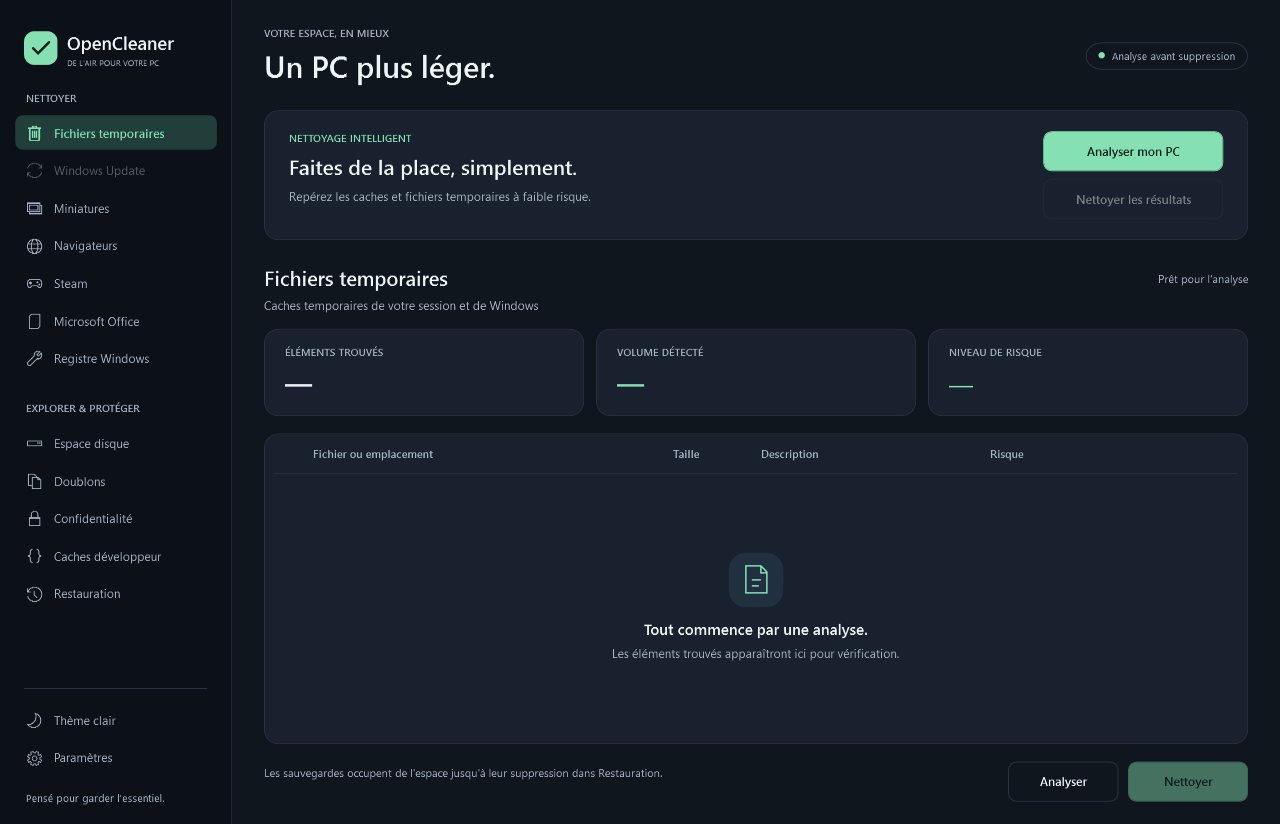
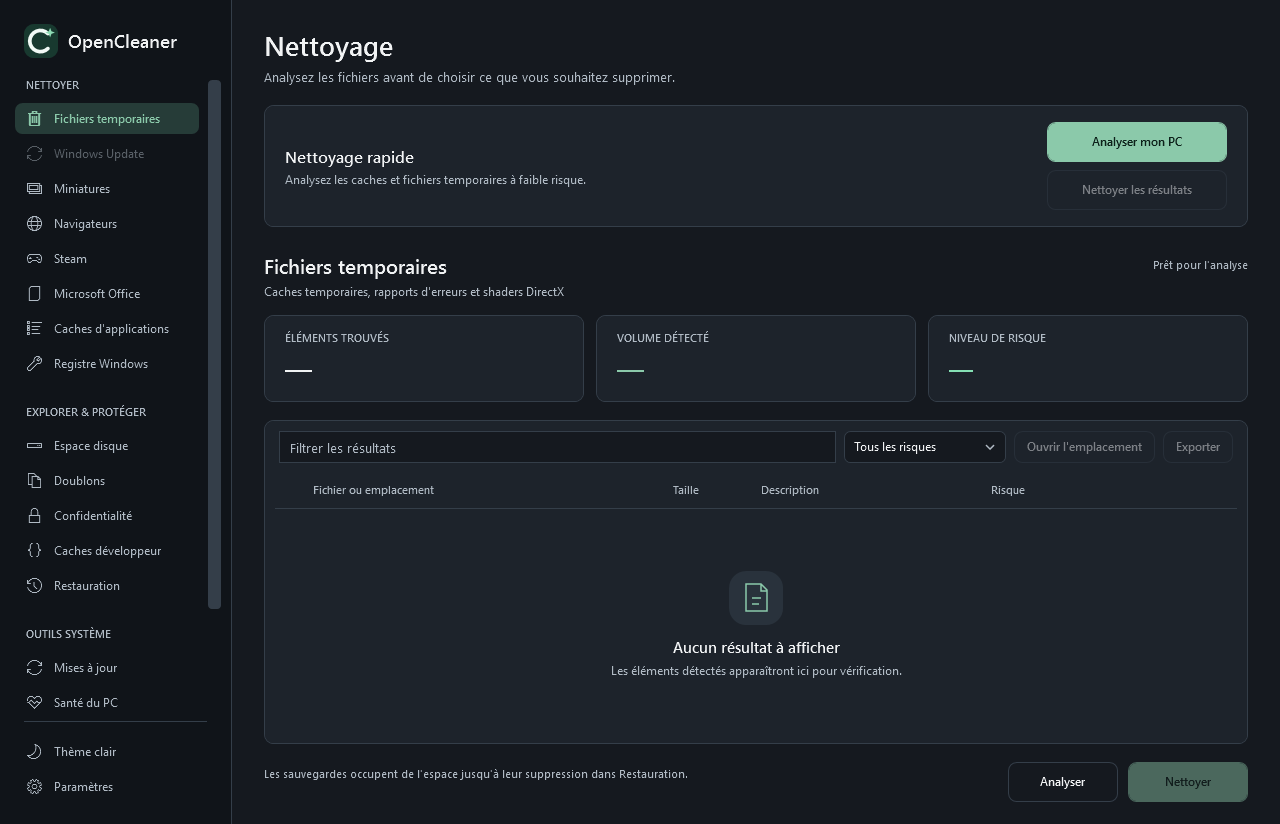
perf: parallelize duplicate hashing and warn about low disk space
- Hash full duplicate candidates with Parallel.ForEachAsync, capped at four threads, with cancellation propagation, per-file size/date revalidation, stable group ordering and a concurrency regression test.
- Add DiskSpaceAlertService (10% threshold, worst known volume) and a non-blocking startup banner that opens the health page; cover thresholds, unknown volumes and negative values with 6 tests.
- Add the preview state and 7 tests overall (247 total), plus README, comparison, release notes, audit, captures and product constraints.

diff --git a/src/OpenCleaner.UI/MainWindow.xaml b/src/OpenCleaner.UI/MainWindow.xaml
@@ -63,7 +63,20 @@
             <Grid.Height><MultiBinding Converter="{x:Static local:DashboardHeightConverter.Instance}"><Binding ElementName="DashboardScroll" Path="ViewportHeight"/><Binding ElementName="BrowserOptionsPanel" Path="Visibility"/></MultiBinding></Grid.Height>
             <Grid.RowDefinitions><RowDefinition Height="Auto"/><RowDefinition Height="Auto"/><RowDefinition Height="Auto"/><RowDefinition Height="Auto"/><RowDefinition Height="Auto"/><RowDefinition Height="Auto"/><RowDefinition Height="*"/><RowDefinition Height="Auto"/></Grid.RowDefinitions>
             <Grid Grid.Row="0" Margin="0,0,0,20">
-                <StackPanel><TextBlock Text="Nettoyage" FontSize="27" FontWeight="SemiBold"/><TextBlock Text="Analysez les fichiers avant de choisir ce que vous souhaitez supprimer." FontSize="13" Foreground="{DynamicResource TextSecond}" Margin="0,5,0,0" TextWrapping="Wrap"/></StackPanel>
+                <StackPanel>
+                    <TextBlock Text="Nettoyage" FontSize="27" FontWeight="SemiBold"/><TextBlock Text="Analysez les fichiers avant de choisir ce que vous souhaitez supprimer." FontSize="13" Foreground="{DynamicResource TextSecond}" Margin="0,5,0,0" TextWrapping="Wrap"/>
+                    <Border x:Name="LowSpaceBanner" Background="{DynamicResource WarnSoft}" BorderBrush="{DynamicResource WarnColor}"
+                            BorderThickness="1" CornerRadius="8" Padding="14,10" Margin="0,12,0,0" Visibility="Collapsed">
+                        <Grid>
+                            <Grid.ColumnDefinitions><ColumnDefinition Width="*"/><ColumnDefinition Width="Auto"/></Grid.ColumnDefinitions>
+                            <StackPanel>
+                                <TextBlock x:Name="LowSpaceTitle" FontSize="13" FontWeight="SemiBold" Foreground="{DynamicResource WarnColor}" TextWrapping="Wrap"/>
+                                <TextBlock x:Name="LowSpaceDetail" FontSize="11" Foreground="{DynamicResource TextSecond}" TextWrapping="Wrap" Margin="0,3,0,0"/>
+                            </StackPanel>
+                            <Button Grid.Column="1" Content="Voir la santé" Click="OpenHealth_Click" Margin="12,0,0,0" VerticalAlignment="Center"/>
+                        </Grid>
+                    </Border>
+                </StackPanel>
             </Grid>
             <Border Grid.Row="1" Style="{StaticResource Card}" Padding="20,16" Margin="0,0,0,24">
                 <Grid><Grid.ColumnDefinitions><ColumnDefinition Width="*"/><ColumnDefinition Width="Auto"/></Grid.ColumnDefinitions>

diff --git a/src/OpenCleaner.Plugins.System/Plugins/DuplicateFinderPlugin.cs b/src/OpenCleaner.Plugins.System/Plugins/DuplicateFinderPlugin.cs
@@ -98,32 +98,56 @@ public sealed class DuplicateFinderPlugin : ICleanerPlugin
         }
 
         var hashes = new Dictionary<string, List<FileInfo>>(StringComparer.Ordinal);
+        var hashLock = new object();
         int done = 0;
-        foreach (var info in partialSuspects)
+        int total = partialSuspects.Count;
+        var parallelOptions = new ParallelOptions
         {
-            ct.ThrowIfCancellationRequested();
-            try
+            CancellationToken = ct,
+            MaxDegreeOfParallelism = Math.Clamp(Environment.ProcessorCount, 1, 4)
+        };
+        try
+        {
+            await Parallel.ForEachAsync(partialSuspects, parallelOptions, async (info, token) =>
             {
-                var length = info.Length;
-                var modified = info.LastWriteTimeUtc;
-                OnFileHashing?.Invoke(info.FullName);
-                var hash = await HashHelper.ComputeHashAsync(info.FullName, ct);
-                info.Refresh();
-                if (!info.Exists || info.Length != length || info.LastWriteTimeUtc != modified) continue;
-                if (!hashes.TryGetValue(hash, out var group)) hashes[hash] = group = [];
-                group.Add(info);
-            }
-            catch (OperationCanceledException) { throw; }
-            catch (Exception ex) when (ex is IOException or UnauthorizedAccessException)
-            {
-                _logger.LogDebug(ex, "Comparaison impossible : {Path}", info.FullName);
-            }
-            finally { progress?.Report(++done / (double)partialSuspects.Count); }
+                token.ThrowIfCancellationRequested();
+                try
+                {
+                    var length = info.Length;
+                    var modified = info.LastWriteTimeUtc;
+                    OnFileHashing?.Invoke(info.FullName);
+                    var hash = await HashHelper.ComputeHashAsync(info.FullName, token).ConfigureAwait(false);
+                    info.Refresh();
+                    if (!info.Exists || info.Length != length || info.LastWriteTimeUtc != modified) return;
+                    lock (hashLock)
+                    {
+                        if (!hashes.TryGetValue(hash, out var group)) hashes[hash] = group = [];
+                        group.Add(info);
+                    }
+                }
+                catch (OperationCanceledException) { throw; }
+                catch (Exception ex) when (ex is IOException or UnauthorizedAccessException)
+                {
+                    _logger.LogDebug(ex, "Comparaison impossible : {Path}", info.FullName);
+                }
+                finally
+                {
+                    int current = Interlocked.Increment(ref done);
+                    if (total > 0) progress?.Report(current / (double)total);
+                }
+            });
         }
+        catch (AggregateException ex) when (ex.InnerExceptions.All(
+                   inner => inner is OperationCanceledException))
+        {
+            throw new OperationCanceledException(ct);
+        }
+        progress?.Report(1);
 
         var items = new List<CleanableItem>();
         var published = new List<(CleanableItem Item, DateTime LastWriteUtc)>();
-        foreach (var group in hashes.Where(g => g.Value.Count > 1))
+        foreach (var group in hashes.Where(group => group.Value.Count > 1)
+                     .OrderBy(group => group.Key, StringComparer.Ordinal))
         {
             ct.ThrowIfCancellationRequested();
             // Stable order designates a keeper, without pretending to infer which file is the original.

diff --git a/tests/OpenCleaner.Core.Tests/Tools/DiskSpaceAlertServiceTests.cs b/tests/OpenCleaner.Core.Tests/Tools/DiskSpaceAlertServiceTests.cs
@@ -1,0 +1,66 @@
+using OpenCleaner.Core.Tools;
+using Xunit;
+
+namespace OpenCleaner.Core.Tests.Tools;
+
+public sealed class DiskSpaceAlertServiceTests
+{
+    private const long Gigabyte = 1024L * 1024 * 1024;
+
+    private static SystemDiskInfo Disk(string name, long total, long free) => new(name, "NTFS", total, free);
+
+    [Fact]
+    public void HealthyDisksDoNotRaiseAnAlert()
+    {
+        Assert.Null(DiskSpaceAlertService.FindLowSpace(
+            [Disk("C:\\", 500 * Gigabyte, 100 * Gigabyte)]));
+        Assert.Null(DiskSpaceAlertService.FindLowSpace([]));
+    }
+
+    [Fact]
+    public void ExactlyTenPercentIsNotAnAlert()
+    {
+        Assert.Null(DiskSpaceAlertService.FindLowSpace(
+            [Disk("C:\\", 500 * Gigabyte, 50 * Gigabyte)]));
+    }
+
+    [Fact]
+    public void LowDiskIsReportedWithItsMeasurements()
+    {
+        DiskSpaceAlert alert = Assert.IsType<DiskSpaceAlert>(DiskSpaceAlertService.FindLowSpace(
+            [Disk("C:\\", 500 * Gigabyte, 42 * Gigabyte)]));
+
+        Assert.Equal("C:\\", alert.Drive);
+        Assert.Equal(42 * Gigabyte, alert.FreeBytes);
+        Assert.Equal(500 * Gigabyte, alert.TotalBytes);
+        Assert.InRange(alert.FreePercent, 8.3, 8.5);
+    }
+
+    [Fact]
+    public void WorstDiskIsSelected()
+    {
+        DiskSpaceAlert alert = Assert.IsType<DiskSpaceAlert>(DiskSpaceAlertService.FindLowSpace(
+        [
+            Disk("C:\\", 500 * Gigabyte, 45 * Gigabyte),
+            Disk("D:\\", 1000 * Gigabyte, 40 * Gigabyte),
+            Disk("E:\\", 100 * Gigabyte, 50 * Gigabyte)
+        ]));
+
+        Assert.Equal("D:\\", alert.Drive);
+    }
+
+    [Fact]
+    public void UnknownAndNegativeValuesAreHandled()
+    {
+        Assert.Null(DiskSpaceAlertService.FindLowSpace([Disk("Z:\\", 0, 0)]));
+
+        DiskSpaceAlert alert = Assert.IsType<DiskSpaceAlert>(DiskSpaceAlertService.FindLowSpace(
+            [Disk("C:\\", 100 * Gigabyte, -5)]));
+        Assert.Equal(0, alert.FreeBytes);
+        Assert.Equal(0, alert.FreeRatio);
+    }
+
+    [Fact]
+    public void NullCollectionIsRejected() =>
+        Assert.Throws<ArgumentNullException>(() => DiskSpaceAlertService.FindLowSpace(null!));
+}

diff --git a/src/OpenCleaner.UI/MainWindow.xaml.cs b/src/OpenCleaner.UI/MainWindow.xaml.cs
@@ -4,6 +4,7 @@ using Microsoft.Win32;
 using OpenCleaner.Contracts;
 using OpenCleaner.Core;
 using OpenCleaner.Core.Security;
+using OpenCleaner.Core.Tools;
 using OpenCleaner.Core.Transactions;
 using OpenCleaner.Plugins.System.Plugins;
 using System.Collections.ObjectModel;
@@ -61,7 +62,38 @@ public partial class MainWindow : Window
                 StatusText.Text = "Annulation en cours… vous pourrez ensuite fermer l'application.";
             }
         };
+        Loaded += async (_, _) => await CheckLowSpaceAsync();
     }
+
+    private async Task CheckLowSpaceAsync()
+    {
+        try
+        {
+            SystemHealthInfo info = await Task.Run(SystemInfoService.Get);
+            DiskSpaceAlert? alert = DiskSpaceAlertService.FindLowSpace(info.Disks);
+            if (alert == null)
+            {
+                LowSpaceBanner.Visibility = Visibility.Collapsed;
+                return;
+            }
+            ShowLowSpace(alert);
+        }
+        catch (Exception ex) when (ex is IOException or UnauthorizedAccessException or InvalidOperationException)
+        {
+            LowSpaceBanner.Visibility = Visibility.Collapsed;
+        }
+    }
+
+    private void ShowLowSpace(DiskSpaceAlert alert)
+    {
+        LowSpaceTitle.Text = $"Espace faible sur {alert.Drive.TrimEnd('\\')}";
+        LowSpaceDetail.Text = $"{SizeFormatter.Format(alert.FreeBytes)} libres sur " +
+                              $"{SizeFormatter.Format(alert.TotalBytes)} ({alert.FreePercent:0.#} %). " +
+                              "Analysez le contenu avant de supprimer des fichiers.";
+        LowSpaceBanner.Visibility = Visibility.Visible;
+    }
+
+    internal void ShowLowSpaceForPreview(DiskSpaceAlert alert) => ShowLowSpace(alert);
 
     private void OnOperationStateChanged() => SetBusy(UiOperation.IsBusy);
 

diff --git a/tests/OpenCleaner.Plugins.Tests/PluginSafetyTests.cs b/tests/OpenCleaner.Plugins.Tests/PluginSafetyTests.cs
@@ -1,3 +1,4 @@
+using System.Collections.Concurrent;
 using System.Diagnostics;
 using System.Runtime.InteropServices;
 using Microsoft.Extensions.Logging.Abstractions;
@@ -170,6 +171,34 @@ public sealed class PluginSafetyTests : IDisposable
         Assert.False((await scanner.CleanAsync([item], _backup)).Success);
         _guardian.Verify(g => g.SafeDeleteAsync(It.IsAny<string>(), It.IsAny<bool>(), It.IsAny<CancellationToken>()),
             Times.Never);
+    }
+
+    [Fact]
+    public async Task ParallelHashingKeepsEveryDuplicateAndCompletesProgress()
+    {
+        string content = new string('p', 300 * 1024);
+        for (int index = 0; index < 6; index++) Write($"copy{index}.txt", content);
+        var hashed = new ConcurrentBag<string>();
+        var progress = new SynchronousProgress();
+        var scanner = new DuplicateFinderPlugin(_guardian.Object, NullLogger<DuplicateFinderPlugin>.Instance, [_root])
+        {
+            MinFileSizeBytes = 100 * 1024
+        };
+        scanner.OnFileHashing += path => hashed.Add(path);
+
+        var items = await scanner.AnalyzeAsync(progress);
+
+        Assert.Equal(5, items.Count);
+        Assert.All(items, item => Assert.Equal(Path.Combine(_root, "copy0.txt"), item.OriginalPath));
+        Assert.Single(items.Select(item => item.DuplicateGroupId).Distinct());
+        Assert.Equal(6, hashed.Count);
+        Assert.Equal(1, progress.Last);
+    }
+
+    private sealed class SynchronousProgress : IProgress<double>
+    {
+        public double Last { get; private set; }
+        public void Report(double value) => Last = value;
     }
 
     private void CreateJunction(string link, string target)

diff --git a/src/OpenCleaner.Core/Tools/DiskSpaceAlertService.cs b/src/OpenCleaner.Core/Tools/DiskSpaceAlertService.cs
@@ -1,0 +1,28 @@
+namespace OpenCleaner.Core.Tools;
+
+public sealed record DiskSpaceAlert(string Drive, long FreeBytes, long TotalBytes, double FreeRatio)
+{
+    public double FreePercent => FreeRatio * 100;
+}
+
+/// <summary>Signale le volume connu le plus proche de la saturation, sous 10 % d'espace libre.</summary>
+public static class DiskSpaceAlertService
+{
+    public const double Threshold = 0.10;
+
+    public static DiskSpaceAlert? FindLowSpace(IEnumerable<SystemDiskInfo> disks)
+    {
+        ArgumentNullException.ThrowIfNull(disks);
+        DiskSpaceAlert? worst = null;
+        foreach (var disk in disks)
+        {
+            if (disk.TotalBytes <= 0) continue;
+            long free = Math.Clamp(disk.FreeBytes, 0, disk.TotalBytes);
+            double ratio = (double)free / disk.TotalBytes;
+            if (ratio >= Threshold) continue;
+            if (worst == null || ratio < worst.FreeRatio)
+                worst = new DiskSpaceAlert(disk.Name, free, disk.TotalBytes, ratio);
+        }
+        return worst;
+    }
+}

diff --git a/tools/OpenCleaner.Preview/Program.cs b/tools/OpenCleaner.Preview/Program.cs
@@ -120,6 +120,9 @@ internal class Program
             new CleanableItem("preview-expert",@"HKCU\Software\Exemple",0,"Clé à vérifier",RiskLevel.ExpertOnly,ItemType.RegistryKey)};
         ((StackPanel)main.FindName("EmptyState")).Visibility=Visibility.Collapsed;
         Render(main,Path.Combine(output,"MainWindow-example-data.png"),main.Width,main.Height-36);
+        main.ShowLowSpaceForPreview(new DiskSpaceAlert("C:\\", 42L*1024*1024*1024, 500L*1024*1024*1024, 42.0/500));
+        Render(main,Path.Combine(output,"MainWindow-low-space.png"),main.Width,main.Height-36);
+        ((Border)main.FindName("LowSpaceBanner")).Visibility=Visibility.Collapsed;
         main.ShowTool("health", (Button)main.FindName("HealthNav"));
         var integratedHealth = (HealthWindow)((ContentControl)main.FindName("ToolContent")).Content;
         if (Window.GetWindow(integratedHealth) != main) throw new InvalidOperationException("Tool owner is not the main window");

diff --git a/PRODUCT.md b/PRODUCT.md
@@ -30,9 +30,9 @@ OpenCleaner pairs safety-first, reversible cleaning with full transparency: encr
 
 ## Capabilities and Constraints
 
-Confirmed capabilities: quick clean; system and browser caches (Chrome, Edge, Brave, Firefox, Opera, Vivaldi); app caches (Steam, Office, Thunderbird, npm, Yarn, NuGet, pip, Gradle, VS Code, Teams, Discord, Spotify, JetBrains, Cursor, Claude, ChatGPT, plus Slack, Notion, WhatsApp, Signal, Zoom, Microsoft Store, OneDrive and Crashpad caches or logs); SHA-256 duplicate finder (multi-hard-link files are never proposed because removing one name frees nothing); privacy trace and secret-file findings requiring manual review; disk space analyzer with a proportional treemap, instant drill-down through the scanned tree, a folder list, the largest files, and installed applications mapped to the measured folders with a flagged registry estimate when a folder was not measured; PC health score (100 points across storage, memory, startup, maintenance, cleanliness) with explained findings, read-only cache measurement, direct safe actions, a path-free 30-day cleanup history, a local daily free-space trend, and a path-free JSON diagnostic export; recycle bin, and DNS cache; uninstaller launcher; startup manager for HKCU and Startup-folder items plus machine HKLM Run/RunOnce keys, with registry backup, per-operation elevation and an estimated impact; `winget` software updates; three-pass secure file erasure; scheduled cleaning restricted to Safe files in whitelisted categories, including application caches; conservative HKCU registry cleanup with export before modification.
+Confirmed capabilities: quick clean; system and browser caches (Chrome, Edge, Brave, Firefox, Opera, Vivaldi); app caches (Steam, Office, Thunderbird, npm, Yarn, NuGet, pip, Gradle, VS Code, Teams, Discord, Spotify, JetBrains, Cursor, Claude, ChatGPT, plus Slack, Notion, WhatsApp, Signal, Zoom, Microsoft Store, OneDrive and Crashpad caches or logs); SHA-256 duplicate finder (bounded parallel full hashing; multi-hard-link files are never proposed because removing one name frees nothing); privacy trace and secret-file findings requiring manual review; disk space analyzer with a proportional treemap, instant drill-down through the scanned tree, a folder list, the largest files, and installed applications mapped to the measured folders with a flagged registry estimate when a folder was not measured; PC health score (100 points across storage, memory, startup, maintenance, cleanliness) with explained findings, read-only cache measurement, direct safe actions, a path-free 30-day cleanup history, a local daily free-space trend, and a path-free JSON diagnostic export; recycle bin, and DNS cache; uninstaller launcher; startup manager for HKCU and Startup-folder items plus machine HKLM Run/RunOnce keys, with registry backup, per-operation elevation and an estimated impact; `winget` software updates; three-pass secure file erasure; scheduled cleaning restricted to Safe files in whitelisted categories, including application caches; conservative HKCU registry cleanup with export before modification.
 
-Confirmed constraints: This is not an antivirus; privacy findings are leads, not verdicts. `C:\Windows` is protected except `Windows\Temp`; `ProgramData`, other user profiles, roots, network/device paths, 8.3 aliases, alternate data streams, and links/junctions are refused. Every deletion is revalidated against the last scan and backed up before removal, except explicitly chosen secure erasure. The app never force-closes browsers and never restarts automatically to apply updates. Windows Update cache cleaning, driver updates, forced process suspension, cloud APIs, deleted-file recovery, whole-disk free-space wiping, external DLL extensions, `bin`/`obj` artifact deletion, `node_modules`, Office recovery/sync files, and Docker contexts are out of scope. The disk analyzer is read-only, ignores links, groups the smallest tiles beyond 80, and its sizes can overstate hard-linked, compressed, or system files. Its application view only maps registry install locations under the scanned root, may repeat a shared folder, and flags sizes that fall back to the registry estimate. Duplicate results exclude files with multiple hard links, since removing one name frees nothing. The application-cache category targets only cache and log folders with relative paths; running Electron apps are skipped for those targets, and portable or version-specific layouts may not all be found. Startup impact is an estimate from executable size and location, not a measured boot time. Machine startup changes require an administrator prompt and are limited to HKLM Run/RunOnce values with a verified registry backup; the elevated helper accepts only validated requests and never runs arbitrary commands, and the Common Startup folder stays read-only. PC health scores use documented, deliberately simple thresholds and cache measurement is capped at five seconds. Cleanup history counts only file cleanups journaled with a transaction, reports deleted volume rather than net free space because backups remain on disk, and is pruned after 30 days; registry changes and secure erasure are not included. The free-space trend records at most one point per volume and local calendar day, only when the health page is opened, in a local unencrypted JSON file that contains no paths. The diagnostic export contains drive letters, measurements and findings but no file paths or usernames, and is written only where the user chooses. The disk treemap supports arrow-key selection, a visible focus ring and Enter activation. Localization is planned but not implemented; only French ships today.
+Confirmed constraints: This is not an antivirus; privacy findings are leads, not verdicts. `C:\Windows` is protected except `Windows\Temp`; `ProgramData`, other user profiles, roots, network/device paths, 8.3 aliases, alternate data streams, and links/junctions are refused. Every deletion is revalidated against the last scan and backed up before removal, except explicitly chosen secure erasure. The app never force-closes browsers and never restarts automatically to apply updates. Windows Update cache cleaning, driver updates, forced process suspension, cloud APIs, deleted-file recovery, whole-disk free-space wiping, external DLL extensions, `bin`/`obj` artifact deletion, `node_modules`, Office recovery/sync files, and Docker contexts are out of scope. The disk analyzer is read-only, ignores links, groups the smallest tiles beyond 80, and its sizes can overstate hard-linked, compressed, or system files. Its application view only maps registry install locations under the scanned root, may repeat a shared folder, and flags sizes that fall back to the registry estimate. Duplicate results exclude files with multiple hard links, since removing one name frees nothing. The application-cache category targets only cache and log folders with relative paths; running Electron apps are skipped for those targets, and portable or version-specific layouts may not all be found. Startup impact is an estimate from executable size and location, not a measured boot time. Machine startup changes require an administrator prompt and are limited to HKLM Run/RunOnce values with a verified registry backup; the elevated helper accepts only validated requests and never runs arbitrary commands, and the Common Startup folder stays read-only. PC health scores use documented, deliberately simple thresholds and cache measurement is capped at five seconds. Cleanup history counts only file cleanups journaled with a transaction, reports deleted volume rather than net free space because backups remain on disk, and is pruned after 30 days; registry changes and secure erasure are not included. The free-space trend records at most one point per volume and local calendar day, only when the health page is opened, in a local unencrypted JSON file that contains no paths. The diagnostic export contains drive letters, measurements and findings but no file paths or usernames, and is written only where the user chooses. A non-blocking startup banner points to the health page when a known volume has less than 10% free space; it only reads measurements and never cleans. The duplicate finder hashes at most four files concurrently. The disk treemap supports arrow-key selection, a visible focus ring and Enter activation. Localization is planned but not implemented; only French ships today.
 
 ## Brand Commitments
 
@@ -45,7 +45,7 @@ Confirmed constraints: This is not an antivirus; privacy findings are leads, not
 ## Evidence on Hand
 
 - Product and security documentation: `README.md`.
-- Audits dated 2026-10-14, 2026-10-26, and 2026-10-29 in `docs/`, including the 240-test validation (206 Core, 26 plugins, 8 UI) and the live read-only health, history, trend, and disk scans used for 1.4.0.
+- Audits dated 2026-10-14, 2026-10-26, and 2026-10-29 in `docs/`, including the 247-test validation (212 Core, 27 plugins, 8 UI) and the live read-only health, history, trend, and disk scans used for 1.4.0.
 - Feature comparison with CCleaner: `docs/CCLEANER-COMPARAISON.md`.
 - Release notes for 1.1.0 through 1.3.0 in `docs/releases/`.
 - Real UI captures in `docs/preview/` and `artifacts/ui-preview/`.

diff --git a/docs/AUDIT-2026-10-29.md b/docs/AUDIT-2026-10-29.md
@@ -8,7 +8,7 @@ Cet incrément fait passer OpenCleaner en 1.4.0 avec plusieurs fonctions visible
 - **Espace disque** : carte proportionnelle, navigation instantanée dans l'arborescence déjà scannée, liste et plus gros fichiers.
 - **Démarrage Windows** : impact estimé et tri, sans modification supplémentaire du système.
 
-**Validation finale : 240 tests réussis (206 Core, 26 plugins, 8 interface), compilation Release avec `--warnaserror`, aperçus WPF clair/sombre et analyse réelle en lecture seule.** Aucun nettoyage, aucune suppression et aucune modification du registre n'ont été exécutés pendant la vérification.
+**Validation finale : 247 tests réussis (212 Core, 27 plugins, 8 interface), compilation Release avec `--warnaserror`, aperçus WPF clair/sombre et analyse réelle en lecture seule.** Aucun nettoyage, aucune suppression et aucune modification du registre n'ont été exécutés pendant la vérification.
 
 - **Historique des nettoyages** : synthèse des 30 derniers jours (nettoyages, fichiers, volume supprimé) lue dans le journal SQLite, sans exposer les chemins.
 - **Navigateurs** : canaux bêta, dev et canary de Chrome, Edge, Brave et Vivaldi, plus Opera Beta et Developer ; la détection d'activité reste partagée par moteur.
@@ -16,6 +16,8 @@ Cet incrément fait passer OpenCleaner en 1.4.0 avec plusieurs fonctions visible
 - **Évolution de l'espace libre** : un relevé quotidien local (une valeur par jour et par volume, sans chemin) alimente une courbe sur 30 jours et indique la variation.
 - **Caches d'applications** : 21 cibles de cache ou de journaux pour Slack, Notion, WhatsApp, Signal, Zoom, Microsoft Store, OneDrive et Crashpad, avec contrôle d'activité des applications Electron. La catégorie peut être planifiée, toujours limitée aux fichiers `Safe`.
 - **Diagnostic exportable et navigation clavier** : export JSON sans chemins, raccourcis F5/Échap/Ctrl+F/Ctrl+E, et carte d'espace disque parcourable aux flèches avec un focus visible.
+- **Alerte d'espace faible** : bandeau au démarrage sous 10 % sur le volume le plus critique, avec accès direct à la Santé ; aucune action destructive.
+- **Doublons plus rapides** : hachage complet parallélisé (maximum quatre threads) avec conservation des vérifications de taille, date et contenu.
 
 ## Constats et corrections
 
@@ -35,6 +37,8 @@ Cet incrément fait passer OpenCleaner en 1.4.0 avec plusieurs fonctions visible
 | P3 | La tendance journalière était regroupée sur la date UTC puis affichée en heure locale, ce qui pouvait décaler la date affichée à l'ouest de UTC. | Regroupement et affichage sur la date locale ; test dédié en fin de journée UTC. |
 | P3 | Le diagnostic de santé ne pouvait pas être transmis ni archivé. | Export JSON structuré (score, sections, constats, mesures, historique, tendance), sans chemin ni contenu personnel. |
 | P3 | La carte d'espace disque n'était utilisable qu'à la souris. | Sélection clavier aux flèches, anneau de focus, ouverture par Entrée ; navigation testée indépendamment de l'interface. |
+| P3 | Un disque presque plein n'était visible qu'en ouvrant Santé. | Bandeau au démarrage sur le volume le plus critique sous 10 %, lecture seule et lien vers le diagnostic. |
+| P3 | Le hachage complet des doublons était séquentiel. | Parallélisation bornée à quatre threads, même vérification de taille/date après lecture et ordre des groupes stabilisé. |
 | P2 | Le gestionnaire de démarrage ne donnait aucun ordre de priorité. | Impact estimé à partir de la taille de l'exécutable et de son emplacement (Temp/Téléchargements/AppData/ProgramData), libellé comme une estimation, avec tri dédié. |
 | P2 | L'anneau de score et la carte ne suivaient pas le thème clair/sombre. | Interface `IThemeAware` appliquée par la fenêtre principale aux vues dessinées manuellement ; brosses mutables ou re-rendu explicite. |
 | P2 | Les captures « thème clair » des vues autonomes restaient sombres dans l'outil d'aperçu. | Les vues autonomes sont rattachées à une fenêtre hôte pour que les ressources dynamiques suivent le thème. |
@@ -54,6 +58,8 @@ Cet incrément fait passer OpenCleaner en 1.4.0 avec plusieurs fonctions visible
 - Le mode planifié applique la même liste blanche de plugins et ne nettoie que les éléments `Safe` ; les caches d'applications y sont inclus sans élargir cette règle.
 - L'export du diagnostic ne contient ni chemin de fichier ni nom d'utilisateur ; il est écrit uniquement à l'emplacement choisi par l'utilisateur.
 - La carte proportionnelle expose un focus clavier visible, un ordre de parcours directionnel et une activation par Entrée.
+- Le bandeau d'espace faible ne fait que lire les volumes et ouvrir la page Santé ; aucun nettoyage n'est déclenché.
+- Le hachage parallèle des doublons conserve la vérification de taille et de date après lecture, la protection du fichier conservé et la limite de quatre threads.
 - Aucune nouvelle opération de suppression, d'élévation ou d'appel réseau n'a été introduite.
 
 ## Validation reproductible
@@ -84,6 +90,8 @@ Le chemin réel de l'interface a également été exercé avec les modes de vali
 
 ![Évolution de l'espace libre](preview/health-trend-1.4.png)
 
+![Alerte d'espace faible au démarrage](preview/low-space-1.4.png)
+
 ![Carte de l'espace disque](preview/disk-map-1.4.png)
 
 ![Liste de l'espace disque](preview/disk-list-1.4.png)
@@ -108,3 +116,4 @@ Les captures sont produites depuis les vrais constructeurs WPF avec des données
 10. **Tendance d'espace** : un seul point par jour et par volume, enregistré uniquement quand la page Santé est ouverte. Les jours sont regroupés selon la date locale ; un changement de fuseau en cours de journée peut créer ou écraser un point. Le fichier JSON local n'est pas chiffré, mais ne contient que volume, date et octets libres.
 11. **Caches d'applications** : les chemins des applications Electron peuvent varier selon la version ou une installation portable. Seuls des dossiers de cache/journaux sont visés, les applications en cours d'exécution sont ignorées et les fichiers verrouillés restent exclus par le gardien.
 12. **Export du diagnostic** : le fichier JSON contient les lettres de volume (`C:`), des mesures et des constats, mais aucun chemin de fichier. Il n'est pas chiffré et reste à l'emplacement choisi par l'utilisateur.
+13. **Alerte d'espace et vitesse** : le bandeau n'est évalué qu'au démarrage, avec un seuil fixe de 10 % ; le hachage parallèle des doublons peut solliciter le disque, mais reste borné à quatre threads et n'altère pas les vérifications.

diff --git a/docs/releases/1.4.0.md b/docs/releases/1.4.0.md
@@ -8,6 +8,8 @@
 - **Doublons plus sûrs** : les fichiers à plusieurs liens physiques ne sont plus proposés à la suppression, car retirer l'un de leurs noms ne libère aucun octet. La vérification est refaite juste avant la suppression.
 - **Espace disque** propose une carte proportionnelle (treemap), la navigation instantanée dans l'arborescence déjà analysée, une liste détaillée, les plus gros fichiers et une vue **Applications** reliant les programmes installés aux dossiers mesurés. Les dossiers protégés sont signalés en ambre ; les liens et jonctions ne sont jamais suivis.
 - **Caches d'applications** : nouvelle catégorie pour les caches et journaux de Slack, Notion, WhatsApp, Signal, Zoom, Microsoft Store et OneDrive, ainsi que les rapports de plantage Crashpad. Seuls des dossiers de cache/journaux sont ciblés ; les applications Electron en cours d'exécution sont ignorées. La catégorie peut être incluse dans le nettoyage planifié, toujours limité aux fichiers Safe et sauvegardés avant suppression.
+- **Alerte d'espace faible** : au démarrage, un bandeau non bloquant signale le disque connu le plus proche de la saturation (moins de 10 % libre) et ouvre directement Santé du PC. Aucune suppression n'est déclenchée.
+- **Doublons plus rapides** : le hachage complet des fichiers candidats est parallélisé avec une limite de quatre threads, sans changer les garanties de vérification ni l'ordre des groupes.
 - **Diagnostic exportable** : un bouton exporte le score, les sections, les constats, les mesures, l'historique et la tendance en JSON, sans aucun chemin de fichier.
 - **Navigation clavier** : `F5` relance l'analyse ou l'actualisation de la page, `Échap` annule l'opération en cours, `Ctrl+F` place le curseur dans le filtre, `Ctrl+E` exporte le rapport. La carte d'espace disque se parcourt aux flèches et s'ouvre avec `Entrée`, avec un anneau de focus visible.
 - **Tendance d'espace** : les points sont regroupés par date locale, sans décalage d'affichage pour les utilisateurs à l'ouest de UTC.
@@ -19,7 +21,7 @@
 
 ## Validation
 
-- 240 tests réussis (206 Core, 26 plugins, 8 interface), compilation Release avec `--warnaserror` sans avertissement.
+- 247 tests réussis (212 Core, 27 plugins, 8 interface), compilation Release avec `--warnaserror` sans avertissement.
 - Aperçu WPF de tous les écrans, y compris les états de la carte et les thèmes clair/sombre.
 - Analyse réelle rejouée hors interface : les totaux, les liens ignorés et les plus gros fichiers sont cohérents.
 - Aucun nettoyage ni suppression exécuté pendant la vérification.

diff --git a/docs/CCLEANER-COMPARAISON.md b/docs/CCLEANER-COMPARAISON.md
@@ -18,7 +18,7 @@ Comparaison établie à partir des fonctions publiques de CCleaner pour Windows 
 | Apps Uninstaller | Oui | Liste, recherche, portée, taille et lancement du désinstalleur officiel. |
 | Software Updater | Oui | Via `winget`, avec sortie visible, confirmation et annulation. |
 | Disk Analyzer | Oui | Carte proportionnelle, navigation instantanée dans l'arborescence scannée, liste, plus gros fichiers et vue Applications (taille mesurée ou estimée). |
-| Duplicate Finder | Oui | SHA-256 avec pré-empreinte, conservation vérifiée de l'original et refus des fichiers à plusieurs liens physiques. |
+| Duplicate Finder | Oui | SHA-256 avec pré-empreinte, hachage complet parallèle, conservation vérifiée de l'original et refus des fichiers à plusieurs liens physiques. |
 | Registry Cleaner | Partiel | Historiques HKCU ciblés, export avant suppression, liste blanche. |
 | Scheduled Cleaning | Oui | Tâche Windows dans le contexte utilisateur, limitée aux fichiers Safe de catégories autorisées, caches d'applications compris. |
 | Smart Clean | Partiel | Analyse rapide et nettoyage des fichiers Safe ; pas de déclenchement automatique à la fermeture du navigateur. |

diff --git a/README.md b/README.md
@@ -9,6 +9,8 @@ Utilitaire Windows gratuit et open source pour examiner les fichiers temporaires
 3. Confirmez **Nettoyer**. Chaque suppression de fichier passe par le gardien et une sauvegarde vérifiée.
 4. Consultez **Restauration** pour restaurer ou supprimer les sauvegardes.
 
+Au démarrage, un bandeau signale un disque sous 10 % d'espace libre avec un accès direct à **Santé du PC** ; il ne supprime rien.
+
 Les sauvegardes sont conservées localement : elles occupent de l'espace. Un nettoyage avec une sauvegarde sur le même disque ne libère pas immédiatement le volume affiché lors du scan. Supprimez seulement les sauvegardes dont vous n'avez plus besoin pour récupérer cet espace.
 
 ### Raccourcis clavier
